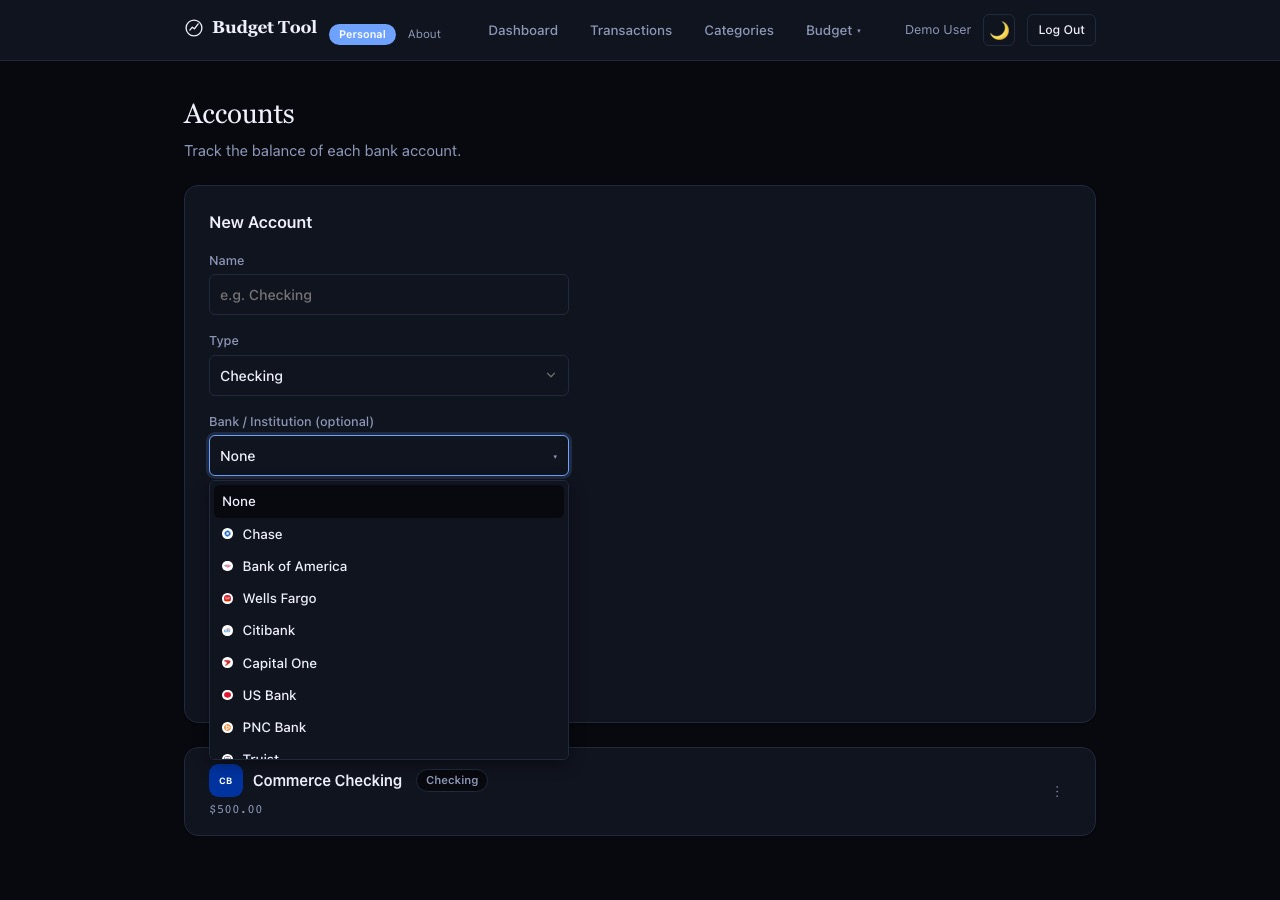
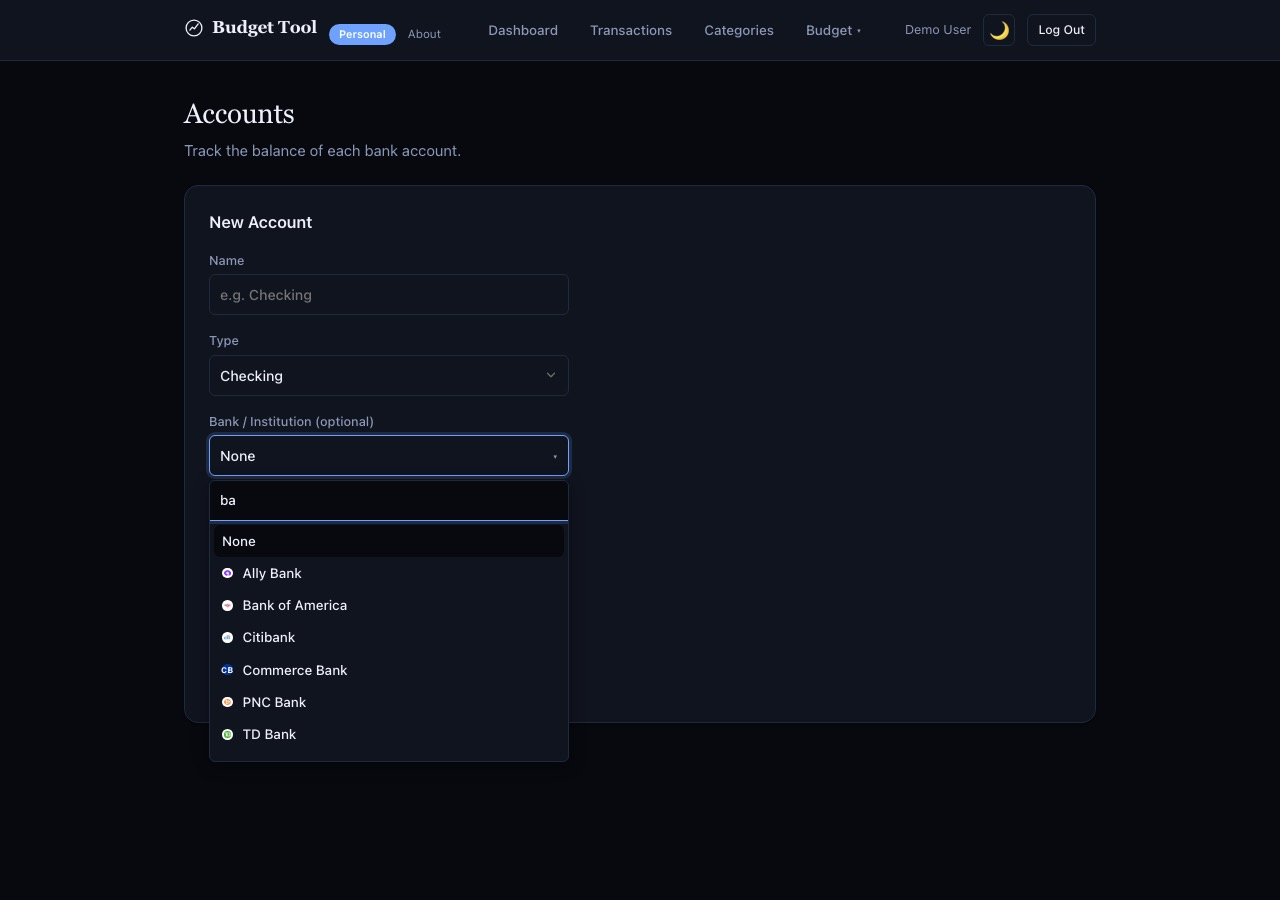
feat: alphabetize the institution dropdown and add search
BANK_INSTITUTIONS is now authored alphabetically by name (the source
order InstitutionPicker.vue displays, no runtime sort). The dropdown
also gains an auto-focused search input that filters the bank list by
a case-insensitive substring match as you type, cleared and refocused
each time the dropdown opens; "None"/"Other" stay pinned regardless of
the query, and Escape closes the dropdown.

Changed region(s): [[0.1562, 0.56, 0.4375, 0.9022]]

diff --git a/client/src/components/InstitutionPicker.vue b/client/src/components/InstitutionPicker.vue
@@ -1,5 +1,5 @@
 <script setup lang="ts">
-import { ref, computed, onMounted, onBeforeUnmount } from 'vue';
+import { ref, computed, nextTick, onMounted, onBeforeUnmount } from 'vue';
 import { BANK_INSTITUTIONS, OTHER_INSTITUTION } from '../data/bankInstitutions';
 import BankLogo from './BankLogo.vue';
 
@@ -17,6 +17,8 @@ const emit = defineEmits<{
 
 const open = ref(false);
 const root = ref<HTMLElement | null>(null);
+const search = ref('');
+const searchInput = ref<HTMLInputElement | null>(null);
 
 const selectedLabel = computed(() => {
   if (props.modelValue === OTHER_INSTITUTION) return 'Other';
@@ -24,17 +26,36 @@ const selectedLabel = computed(() => {
   return props.modelValue;
 });
 
+// BANK_INSTITUTIONS is already alphabetical (see bankInstitutions.ts) —
+// filtering preserves that order rather than re-sorting.
+const filteredBanks = computed(() => {
+  const query = search.value.trim().toLowerCase();
+  if (!query) return BANK_INSTITUTIONS;
+  return BANK_INSTITUTIONS.filter((bank) => bank.name.toLowerCase().includes(query));
+});
+
 function select(value: string) {
   emit('update:modelValue', value);
   open.value = false;
 }
 
-function toggle() {
+async function toggle() {
   open.value = !open.value;
+  if (open.value) {
+    search.value = '';
+    await nextTick();
+    searchInput.value?.focus();
+  }
 }
 
 function handleClickOutside(event: MouseEvent) {
   if (root.value && !root.value.contains(event.target as Node)) {
+    open.value = false;
+  }
+}
+
+function handleKeydown(event: KeyboardEvent) {
+  if (event.key === 'Escape') {
     open.value = false;
   }
 }
@@ -52,27 +73,39 @@ onBeforeUnmount(() => document.removeEventListener('click', handleClickOutside))
       </span>
       <span class="picker-chevron" aria-hidden="true">▾</span>
     </button>
-    <ul v-if="open" class="picker-dropdown" role="listbox">
-      <li>
-        <button type="button" role="option" :aria-selected="modelValue === ''" @click="select('')">None</button>
-      </li>
-      <li v-for="bank in BANK_INSTITUTIONS" :key="bank.name">
-        <button type="button" role="option" :aria-selected="modelValue === bank.name" @click="select(bank.name)">
-          <BankLogo :institution="bank.name" size="1.3em" />
-          {{ bank.name }}
-        </button>
-      </li>
-      <li>
-        <button
-          type="button"
-          role="option"
-          :aria-selected="modelValue === OTHER_INSTITUTION"
-          @click="select(OTHER_INSTITUTION)"
-        >
-          Other
-        </button>
-      </li>
-    </ul>
+    <div v-if="open" class="picker-dropdown">
+      <input
+        ref="searchInput"
+        v-model="search"
+        type="text"
+        class="picker-search"
+        placeholder="Search banks…"
+        @keydown.stop="handleKeydown"
+        @click.stop
+      />
+      <ul role="listbox">
+        <li>
+          <button type="button" role="option" :aria-selected="modelValue === ''" @click="select('')">None</button>
+        </li>
+        <li v-for="bank in filteredBanks" :key="bank.name">
+          <button type="button" role="option" :aria-selected="modelValue === bank.name" @click="select(bank.name)">
+            <BankLogo :institution="bank.name" size="1.3em" />
+            {{ bank.name }}
+          </button>
+        </li>
+        <li v-if="!filteredBanks.length" class="picker-empty">No banks match "{{ search }}"</li>
+        <li>
+          <button
+            type="button"
+            role="option"
+            :aria-selected="modelValue === OTHER_INSTITUTION"
+            @click="select(OTHER_INSTITUTION)"
+          >
+            Other
+          </button>
+        </li>
+      </ul>
+    </div>
   </div>
 </template>
 
@@ -117,16 +150,45 @@ onBeforeUnmount(() => document.removeEventListener('click', handleClickOutside))
   top: calc(100% + 4px);
   left: 0;
   right: 0;
-  max-height: 280px;
-  overflow-y: auto;
-  list-style: none;
-  margin: 0;
-  padding: var(--space-1);
   background: var(--color-surface);
   border: 1px solid var(--color-border);
   border-radius: var(--radius-sm);
   box-shadow: var(--shadow-md);
   z-index: 20;
+  overflow: hidden;
+}
+
+.picker-search {
+  display: block;
+  width: 100%;
+  box-sizing: border-box;
+  font: inherit;
+  font-size: 0.9rem;
+  color: var(--color-text);
+  background: var(--color-surface);
+  border: none;
+  border-bottom: 1px solid var(--color-border);
+  padding: 9px 10px;
+  border-radius: 0;
+}
+
+.picker-search:focus {
+  outline: none;
+  background: var(--color-bg);
+}
+
+.picker-dropdown ul {
+  max-height: 240px;
+  overflow-y: auto;
+  list-style: none;
+  margin: 0;
+  padding: var(--space-1);
+}
+
+.picker-empty {
+  padding: 6px 8px;
+  font-size: 0.85rem;
+  color: var(--color-text-muted);
 }
 
 .picker-dropdown button {

diff --git a/client/src/data/bankInstitutions.ts b/client/src/data/bankInstitutions.ts
@@ -23,23 +23,26 @@ export interface BankInstitution {
   domain?: string;
 }
 
+// Alphabetical by name — InstitutionPicker.vue lists these in source
+// order rather than re-sorting at render time, so the order here is the
+// order shown in the dropdown.
 export const BANK_INSTITUTIONS: BankInstitution[] = [
-  { name: 'Chase', color: '#117aca', mark: 'C', domain: 'chase.com' },
-  { name: 'Bank of America', color: '#e11d3c', mark: 'BA', domain: 'bankofamerica.com' },
-  { name: 'Wells Fargo', color: '#d71e28', mark: 'WF', domain: 'wellsfargo.com' },
-  { name: 'Citibank', color: '#003b70', mark: 'CI', domain: 'citibank.com' },
-  { name: 'Capital One', color: '#004977', mark: 'CO', domain: 'capitalone.com' },
-  { name: 'US Bank', color: '#0c3767', mark: 'US', domain: 'usbank.com' },
-  { name: 'PNC Bank', color: '#f47920', mark: 'PNC', domain: 'pnc.com' },
-  { name: 'Truist', color: '#4b2e83', mark: 'TR', domain: 'truist.com' },
-  { name: 'TD Bank', color: '#54b848', mark: 'TD', domain: 'td.com' },
-  { name: 'Commerce Bank', color: '#0033a0', mark: 'CB', domain: 'commercebank.com' },
-  { name: 'SoFi', color: '#00a3e0', mark: 'SF', domain: 'sofi.com' },
   { name: 'Ally Bank', color: '#7b2cbf', mark: 'AL', domain: 'ally.com' },
-  { name: 'Discover', color: '#ff6000', mark: 'DI', domain: 'discover.com' },
   { name: 'American Express', color: '#016fd0', mark: 'AX', domain: 'americanexpress.com' },
+  { name: 'Bank of America', color: '#e11d3c', mark: 'BA', domain: 'bankofamerica.com' },
+  { name: 'Capital One', color: '#004977', mark: 'CO', domain: 'capitalone.com' },
   { name: 'Charles Schwab', color: '#00a0df', mark: 'CS', domain: 'schwab.com' },
+  { name: 'Chase', color: '#117aca', mark: 'C', domain: 'chase.com' },
+  { name: 'Citibank', color: '#003b70', mark: 'CI', domain: 'citibank.com' },
+  { name: 'Commerce Bank', color: '#0033a0', mark: 'CB', domain: 'commercebank.com' },
+  { name: 'Discover', color: '#ff6000', mark: 'DI', domain: 'discover.com' },
+  { name: 'PNC Bank', color: '#f47920', mark: 'PNC', domain: 'pnc.com' },
+  { name: 'SoFi', color: '#00a3e0', mark: 'SF', domain: 'sofi.com' },
+  { name: 'TD Bank', color: '#54b848', mark: 'TD', domain: 'td.com' },
+  { name: 'Truist', color: '#4b2e83', mark: 'TR', domain: 'truist.com' },
+  { name: 'US Bank', color: '#0c3767', mark: 'US', domain: 'usbank.com' },
   { name: 'USAA', color: '#002554', mark: 'US', domain: 'usaa.com' },
+  { name: 'Wells Fargo', color: '#d71e28', mark: 'WF', domain: 'wellsfargo.com' },
 ];
 
 const FALLBACK_COLORS = ['#6b7280', '#8b5cf6', '#059669', '#d97706', '#0ea5e9', '#dc2626'];

diff --git a/client/src/components/InstitutionPicker.test.ts b/client/src/components/InstitutionPicker.test.ts
@@ -1,7 +1,7 @@
 import { describe, it, expect } from 'vitest';
 import { mount } from '@vue/test-utils';
 import InstitutionPicker from './InstitutionPicker.vue';
-import { OTHER_INSTITUTION } from '../data/bankInstitutions';
+import { BANK_INSTITUTIONS, OTHER_INSTITUTION } from '../data/bankInstitutions';
 
 describe('InstitutionPicker', () => {
   it('shows "None" and no logo when nothing is selected', () => {
@@ -42,5 +42,44 @@ describe('InstitutionPicker', () => {
 
     expect(wrapper.emitted('update:modelValue')![0]).toEqual(['Chase']);
     expect(wrapper.find('.picker-dropdown').exists()).toBe(false);
+  });
+
+  it('lists curated banks alphabetically', () => {
+    const names = BANK_INSTITUTIONS.map((b) => b.name);
+    expect(names).toEqual([...names].sort((a, b) => a.localeCompare(b)));
+  });
+
+  it('filters the bank list as the search box is typed into', async () => {
+    const wrapper = mount(InstitutionPicker, { props: { modelValue: '' } });
+    await wrapper.find('.picker-trigger').trigger('click');
+
+    await wrapper.find('.picker-search').setValue('cha');
+
+    const optionText = wrapper.findAll('[role="option"]').map((el) => el.text());
+    expect(optionText.some((t) => t.includes('Chase'))).toBe(true);
+    expect(optionText.some((t) => t.includes('SoFi'))).toBe(false);
+    // "None" and "Other" aren't bank-name matches but stay available regardless of the query.
+    expect(optionText).toContain('None');
+    expect(optionText).toContain('Other');
+  });
+
+  it('shows a "no matches" message when the search has no hits', async () => {
+    const wrapper = mount(InstitutionPicker, { props: { modelValue: '' } });
+    await wrapper.find('.picker-trigger').trigger('click');
+
+    await wrapper.find('.picker-search').setValue('zzz-not-a-bank');
+
+    expect(wrapper.find('.picker-empty').text()).toContain('zzz-not-a-bank');
+  });
+
+  it('clears the search and refocuses it each time the dropdown reopens', async () => {
+    const wrapper = mount(InstitutionPicker, { props: { modelValue: '' }, attachTo: document.body });
+    await wrapper.find('.picker-trigger').trigger('click');
+    await wrapper.find('.picker-search').setValue('chase');
+    await wrapper.find('.picker-trigger').trigger('click'); // close
+    await wrapper.find('.picker-trigger').trigger('click'); // reopen
+
+    expect((wrapper.find('.picker-search').element as HTMLInputElement).value).toBe('');
+    wrapper.unmount();
   });
 });
